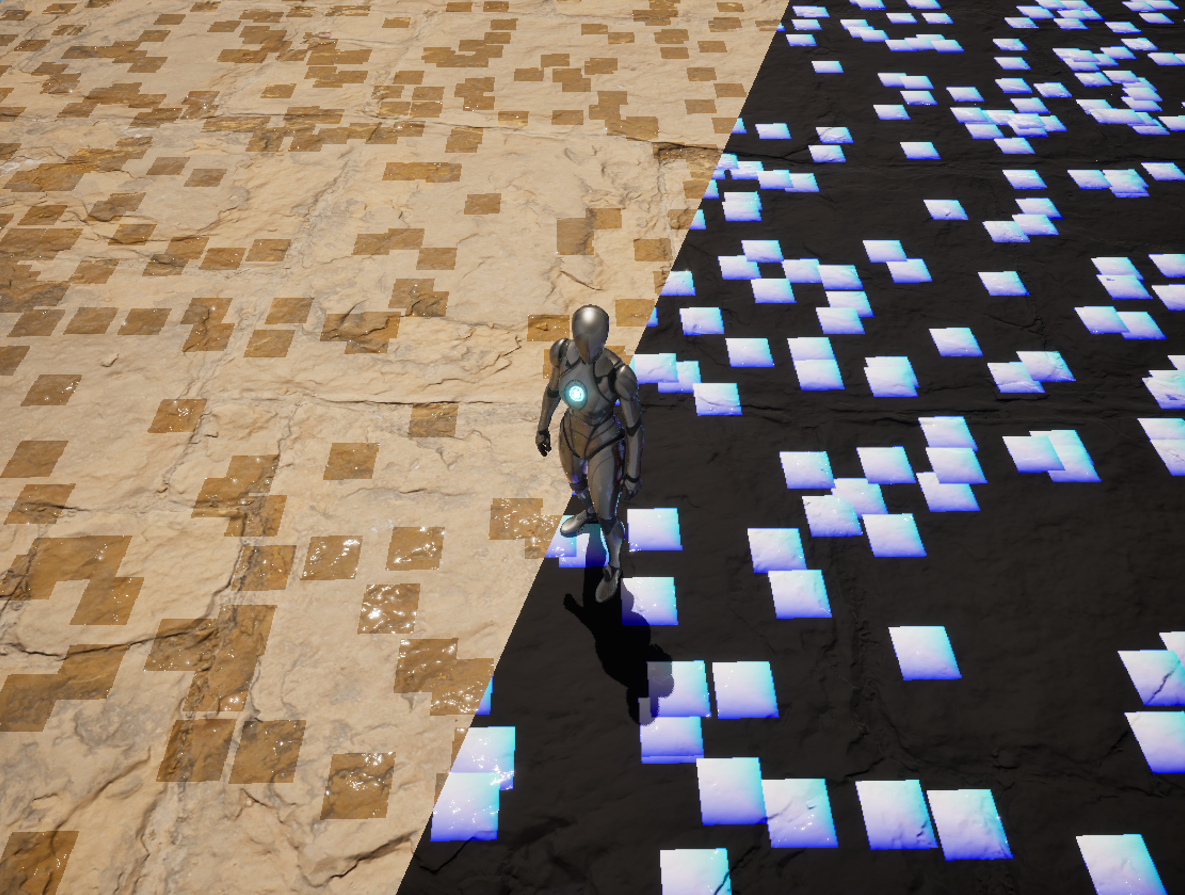
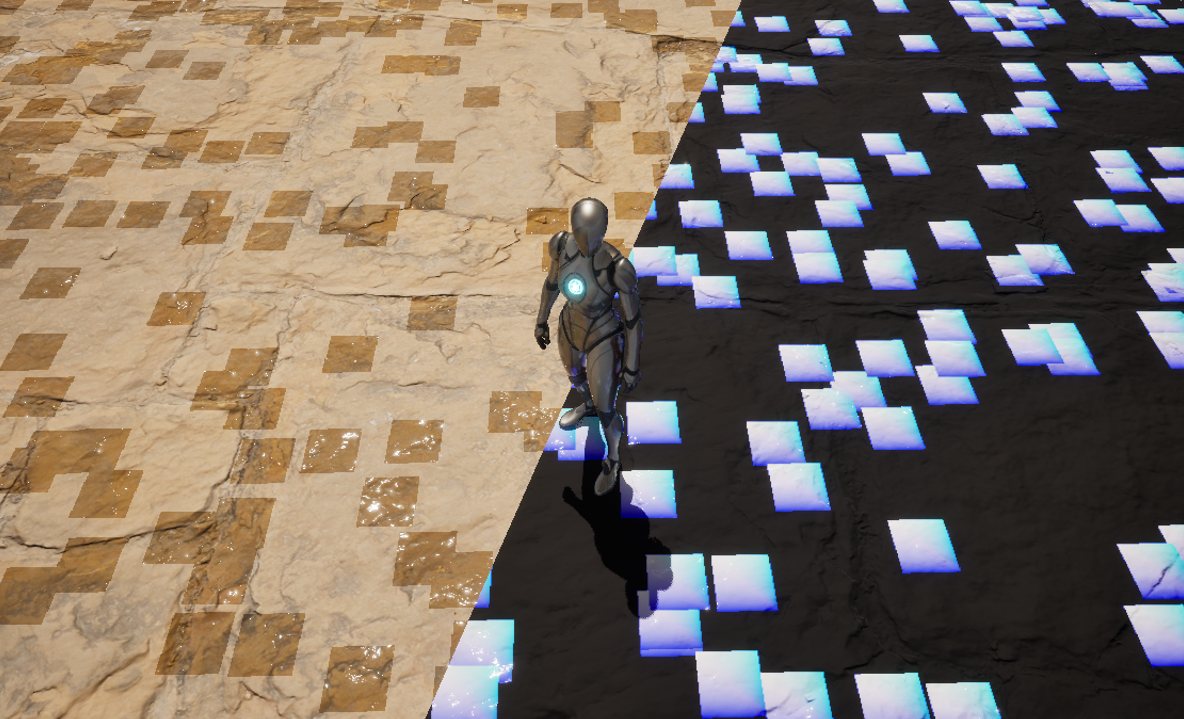
Article on dynamic wetness first look

diff --git a/_posts/2024-11-10-Dynamic_wetness_article.md b/_posts/2024-11-10-Dynamic_wetness_article.md
@@ -1,7 +1,40 @@
 ---
 title: "Dynamic wetness"
 categories: [Articles]
-description: Article explaining how I made efficient screen-space wetness
+description: Article explaining how I made a reponsive screen-space wetness
 ---
 
-## General information
+## What is this all about?
+This project is a graphics concept for a future team-developed game. Initially, team decided to have a plaguecore-decayed visuals with slow-paced gameplay. As a graphics programmer, I thought on the way to contribute to this artistic idea.
+
+As a result, I delivered a demo with dynamic rain particles, material function that can make any material look wet and a screen space wetness mask that utilizes the material function to make wet spots appearing after rain particle drop. It forced me to dive into deep research in Niagara, materials and rendering pipeline of Unreal.
+
+In this article, I will explain what this effect consists of:
+![Video with the result]()
+
+## Niagara particles
+
+First, I needed some rain particles. The particles in the project are slightly modified ones from the [Ghislain Girardot's tutorial](https://www.youtube.com/watch?v=7stKYkRYmu0). Particles have complex and physicly accurate behavior. It includes 3 different states:
+
+### 1. Sticky
+It means the particle *(a rain drop)* sticks to the surface. It will follow the gravity and try to fall down, however, depending on the velocity and particle mass it will either stick and follow the surface, or it starts falling down to the floor
+
+### 2. Fall
+It is a free fall state for the rain drop. When a particle reaches the surface, it switches to a splash state.
+
+### 3. Splash
+This state simply draws a splash sprite adter that killing the particle.
+
+## Material function
+
+The idea was to have a universal material function, that can make any material look wet by tweaking original material values. The function in the project has been taken from this [Ben Cloward's tutorial](https://www.youtube.com/watch?v=fYGOZYST-oQ).
+
+### Real life observations
+
+
+### Node graph explanation
+![Wetness function photo](/assets/post_data/dynamic_wetness/wetness-function.png)
+
+## Dynamic wetness
+
+I implemented a screen mask where all the wet spots were rendered as primitives, then this wetmask is sampled right from material graphs and affects the wetness value. As a result I can have wet spots exactly where the rain drops dropped.
